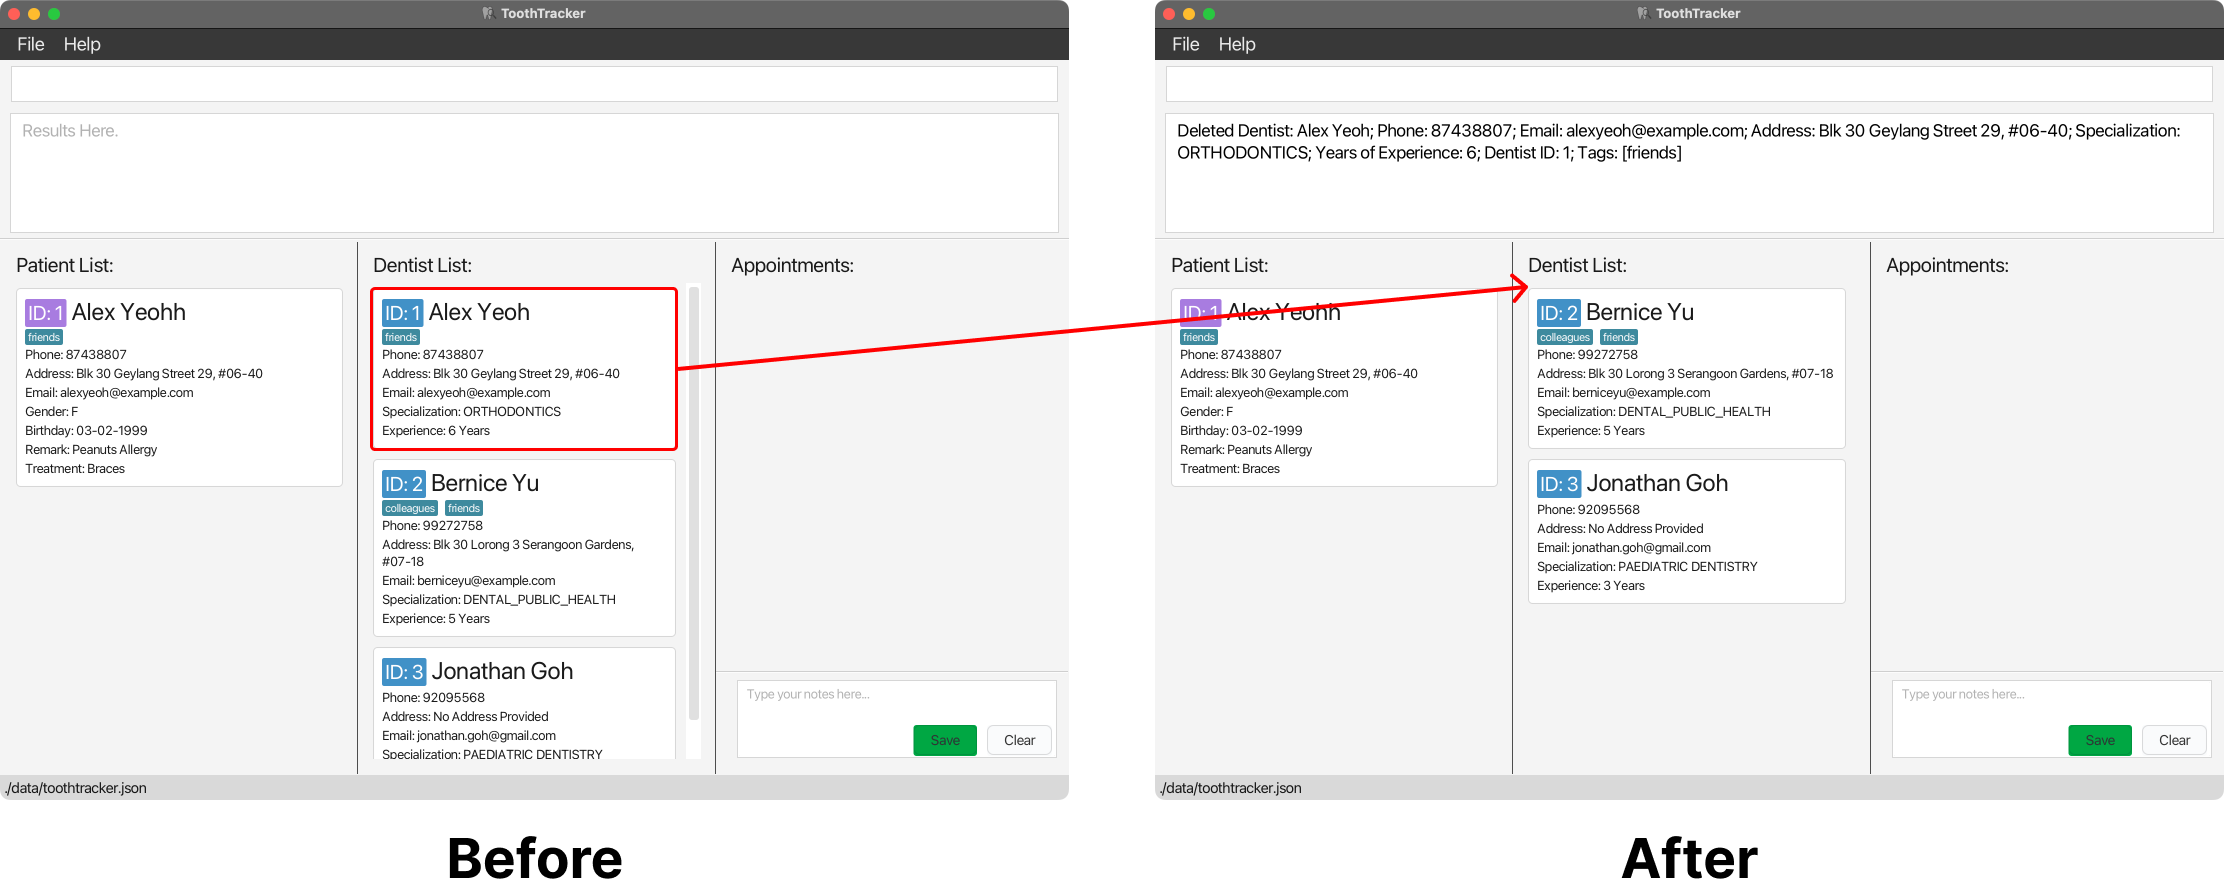
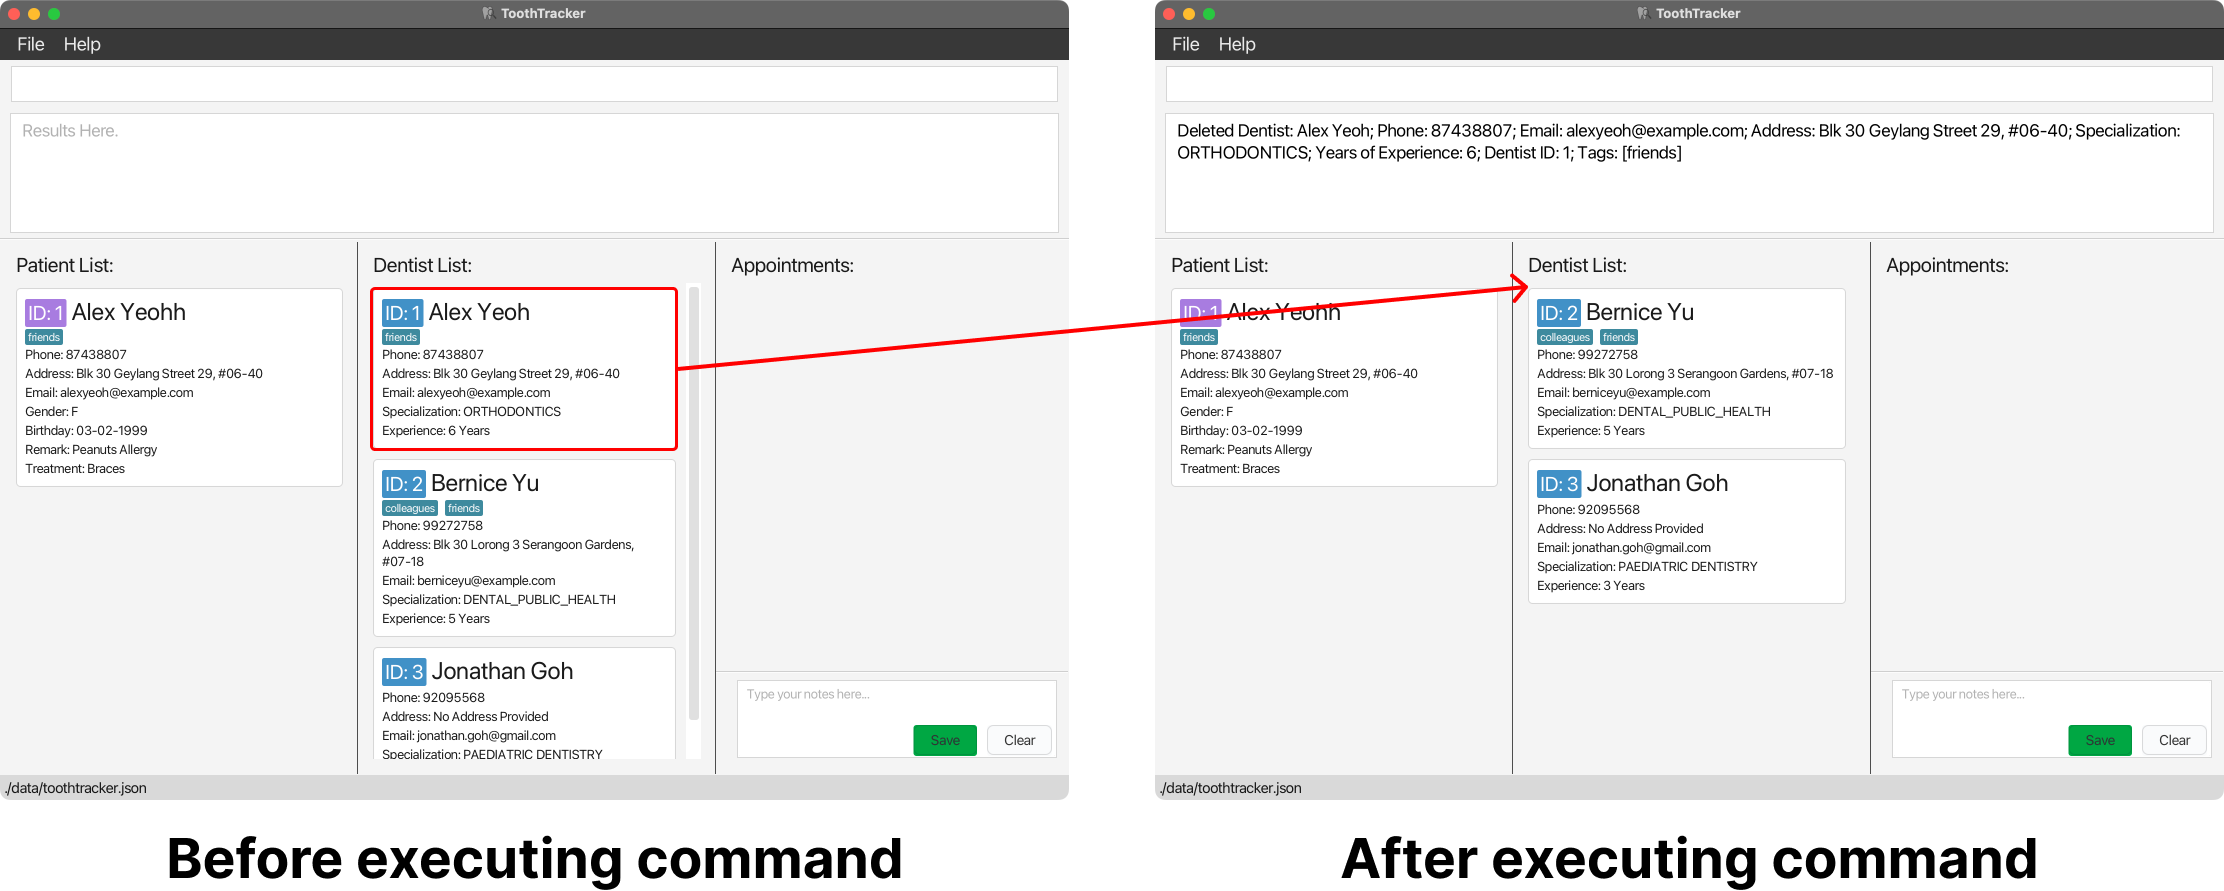
Change example images in "Trying out your first commands" section

Changed region(s): [[0.5895, 0.9394, 0.9308, 1.0], [0.0621, 0.9394, 0.4033, 1.0]]

diff --git a/docs/_includes/quickstart.md b/docs/_includes/quickstart.md
@@ -73,9 +73,11 @@ It allows you to easily understand your clinic's appointments and availability a
 
 
 ### Using ToothTracker's CLI
-ToothTracker is optimized for use via a Command Line Interface which means you can do what you want to get done just by using text input (known as commands). Cool right?
+ToothTracker is optimized for use via a Command Line Interface which means you can do what you want to get done just
+by using text input (known as commands).
 
-Right now, ToothTracker only understands certain commands (the complete list of commands can be found in Features) and these commands must be formatted in a specific way.
+Right now, ToothTracker only understands certain commands (the complete list of commands can be found in [Features](#features))
+and these commands must be formatted in a specific way.
 It’s just the way ToothTracker is wired to think and listen. So let’s learn how to talk to ToothTracker!
 
 
@@ -113,23 +115,27 @@ Let's start by going through some simple dentist-related commands!
 1. Suppose you have a dentist, named Jonathan Goh, who joined your clinic. <br>
 Try running the command `add-dentist n/Jonathan Goh p/92095568 e/jonathan.goh@gmail.com y/3 s/Paediatric Dentistry`.
    - Notice that you've created a new dentist, Jonathan Goh!
-   ![trying-command-add-dentist-example](images/ug/add-dentist-example.png){: .centered-image-full-size }
+
+![trying-command-add-dentist-example](images/ug/add-dentist-example.png){: .centered-image-full-size }
 
 2. Now, suppose that a dentist, Alex Yeoh, is leaving your clinic, and you want to delete his records from ToothTracker.
 You can do this by running `delete-dentist 1`.
    - After executing the command, Alex Yeoh is now deleted from ToothTracker!
-   ![trying-command-delete-dentist-example](images/ug/delete-dentist-example.png){: .centered-image-full-size }
+
+![trying-command-delete-dentist-example](images/ug/delete-dentist-example.png){: .centered-image-full-size }
 
 Now that you’ve been introduced to some dentist-related commands, let’s change things up by trying out some patient commands.
 
 1. Suppose you have a new patient, named Jean, onboarding your clinic. <br>
 Try entering the command `add-patient n/Jean p/95339212 b/14-09-2001 g/F`.
    - Notice that you've created a new patient, Jean!
-   ![trying-command-add-patient-example](images/ug/add-patient-example.png){: .centered-image-full-size }
+
+![trying-command-add-patient-example](images/ug/add-patient-example.png){: .centered-image-full-size }
 
 2.  Now, suppose that you want to change the phone number of your patient, Alex. Easy! Just type in `edit-patient 1 p/82019452`.
    - Done! Alex's phone number has been updated!
-   ![trying-command-edit-patient-example](images/ug/edit-patient-example.png){: .centered-image-full-size }
+
+![trying-command-edit-patient-example](images/ug/edit-patient-example.png){: .centered-image-full-size }
 
 Awesome! Now that you've gotten familiar with ToothTracker's commands, feel free to explore more features in the
 [Features](#features) section to fully leverage ToothTracker's capabilities.
